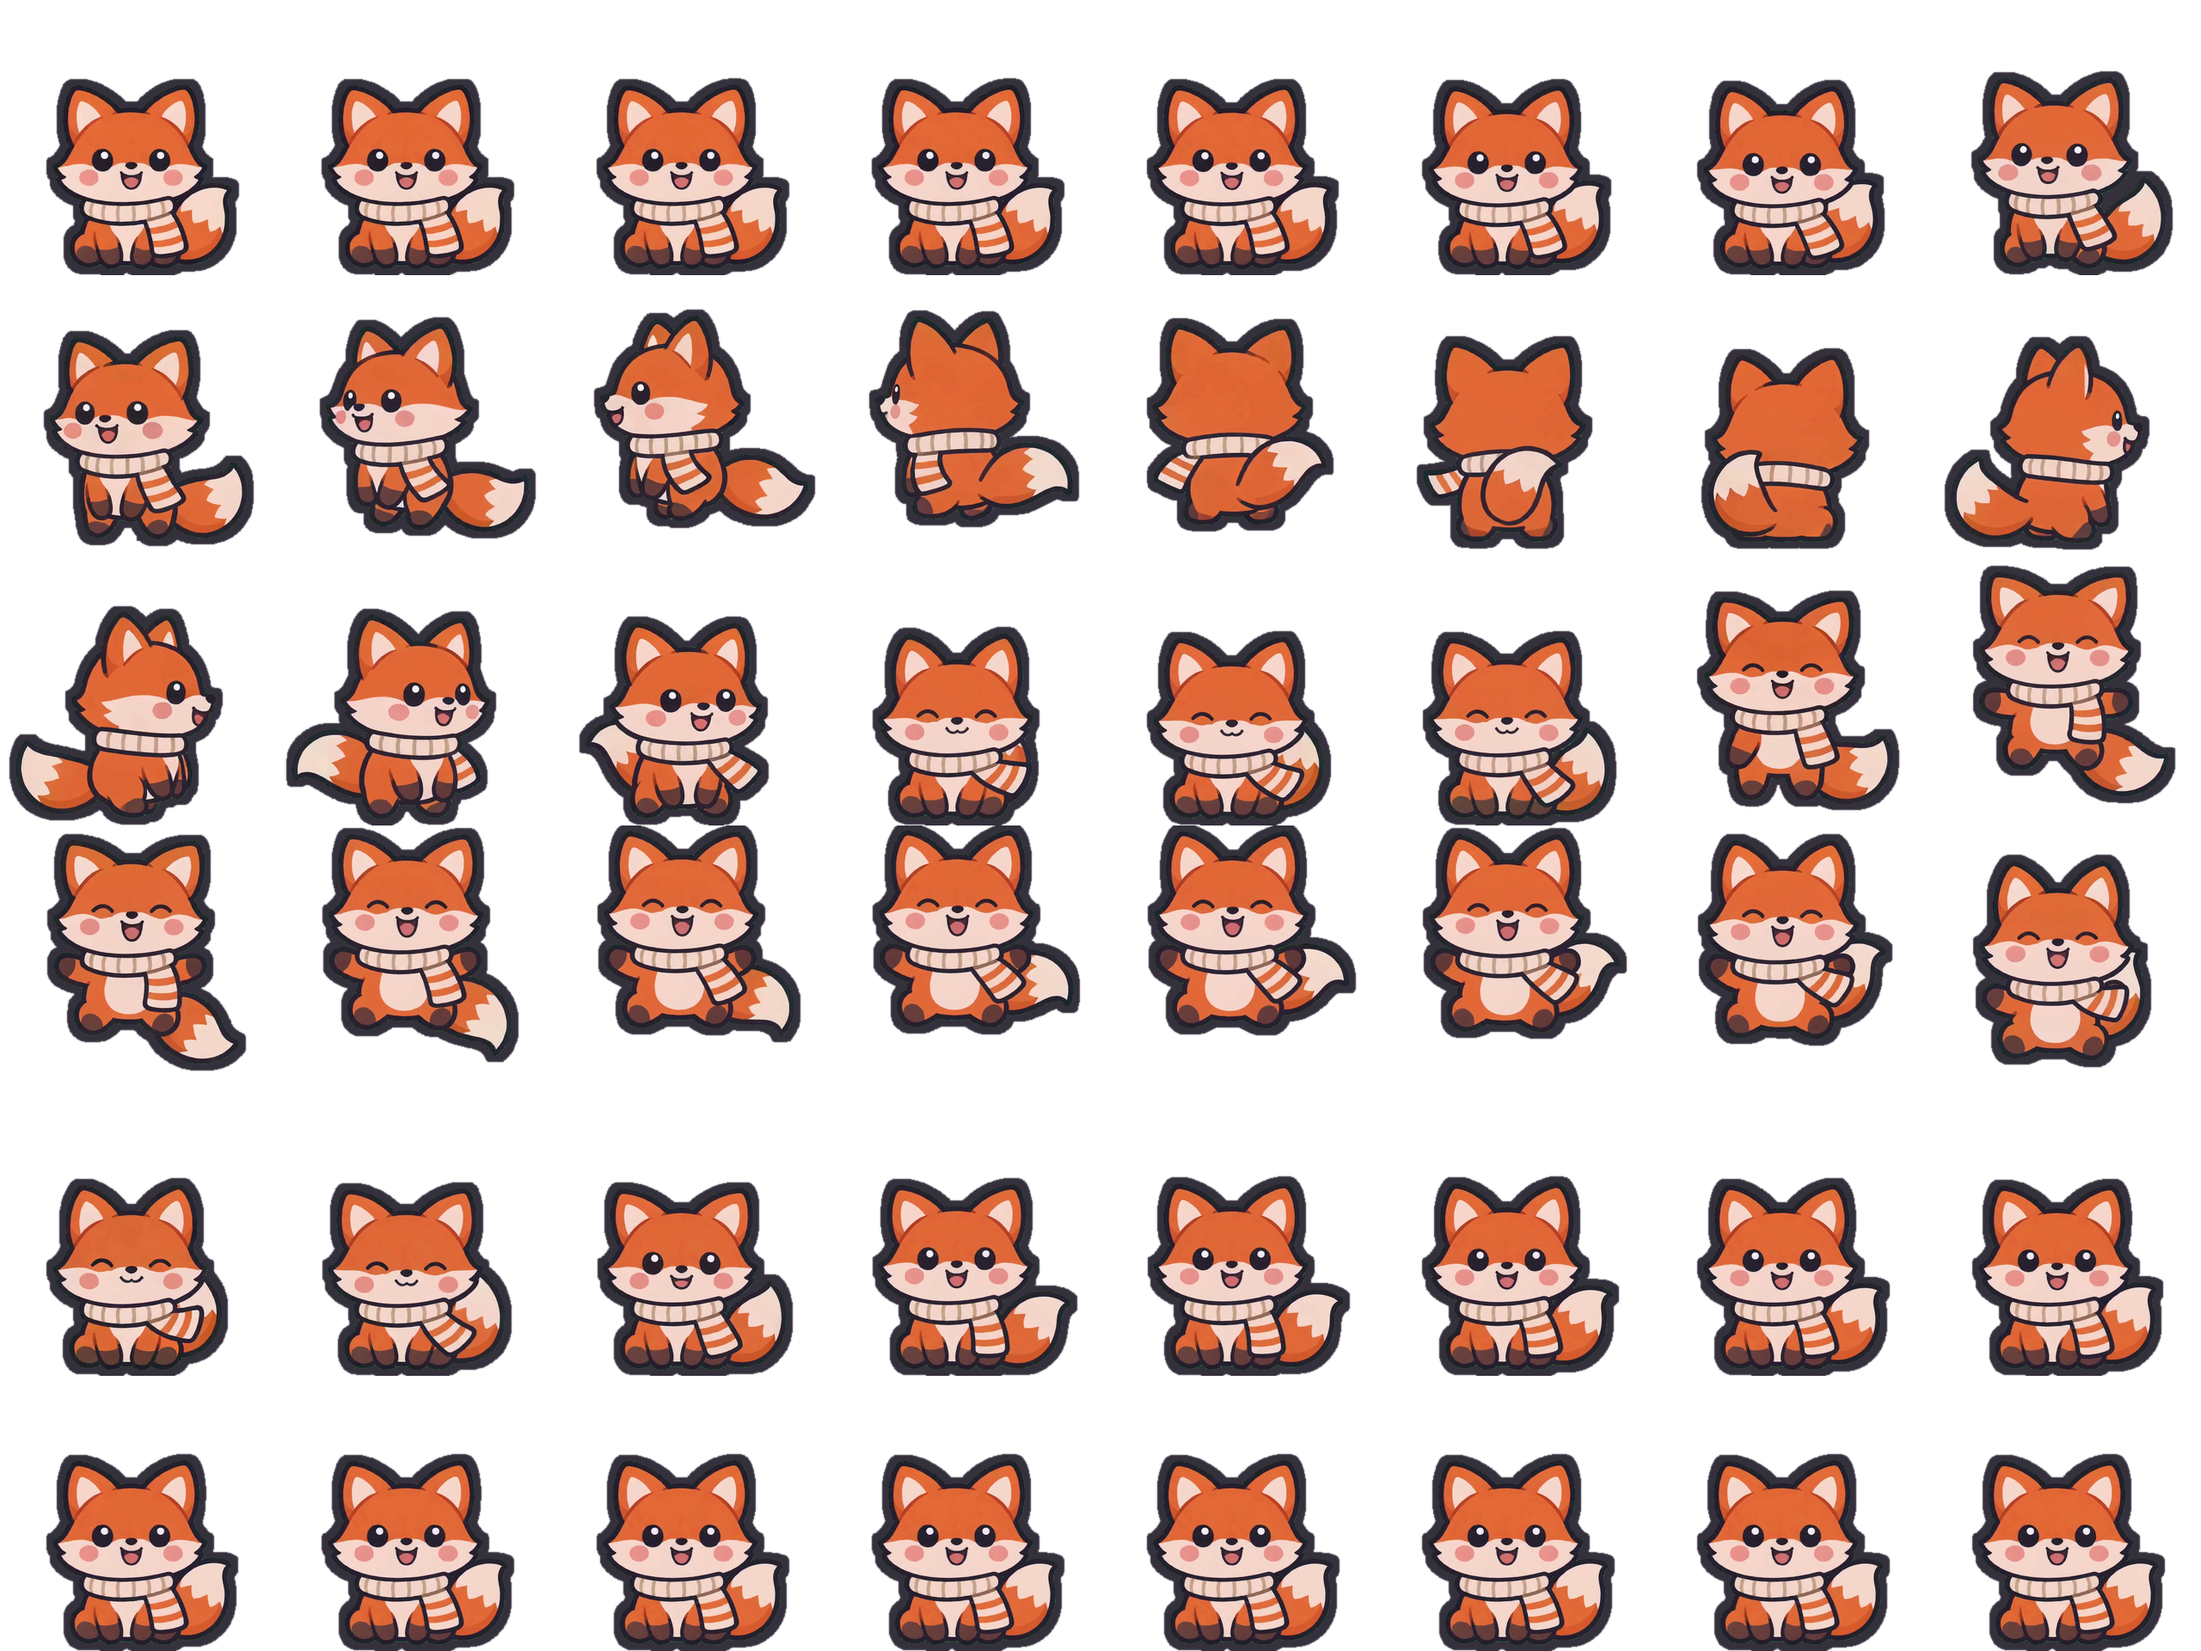
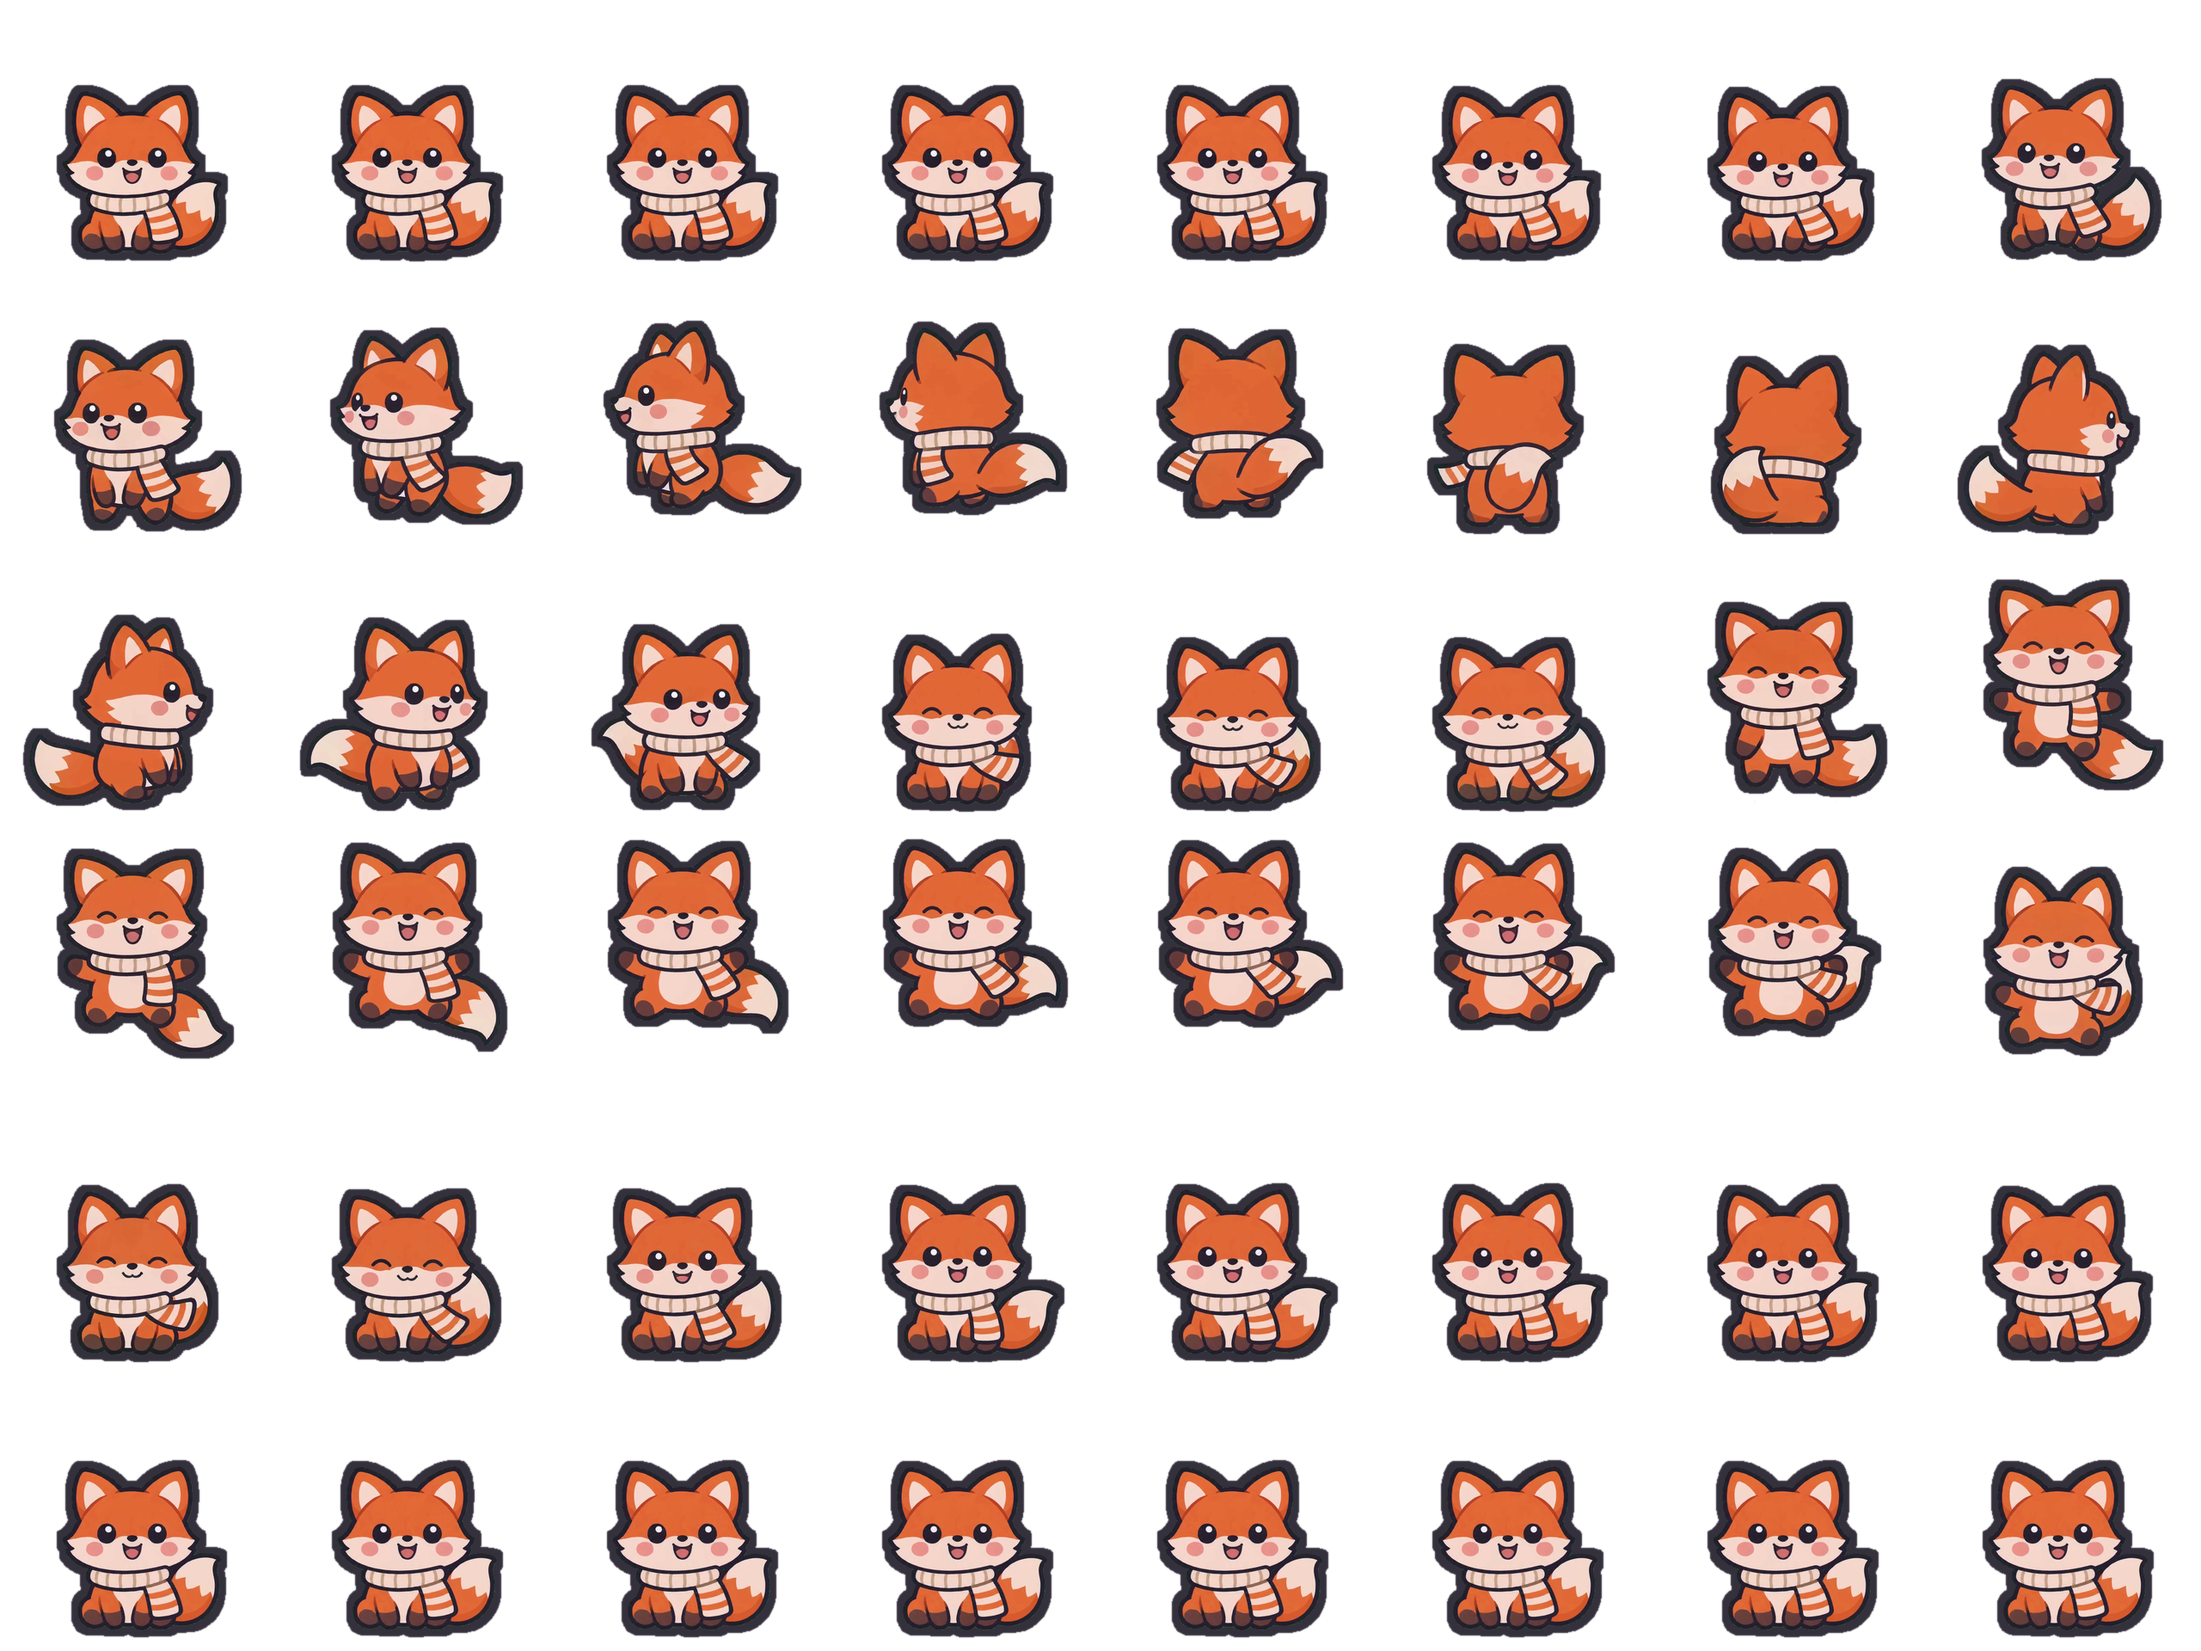
Animações sem cortes (orelhas do coelho no topo do salto, contorno da raposa) e pedra sem o contorno cortado dos lados
Claude-Session: https://claude.ai/code/session_019qmALCv4ef3vy6rfbU3Dgw

diff --git a/tools/video_anim.py b/tools/video_anim.py
@@ -95,11 +95,15 @@ def convert(video, name, fps, size, start, end, cols, thick=0):
     bg = np.median(border, axis=0).astype(np.float32)
     keyed = [key(f, bg) for f in frames]
     # um corte igual para todos os frames (o animal não "salta" de sítio)
-    boxes = [k.getchannel("A").point(lambda v: 255 if v > 40 else 0).getbbox() for k in keyed]
+    # (inclui as bordas suaves do contorno, para não cortar pontas de orelhas)
+    boxes = [k.getchannel("A").point(lambda v: 255 if v > 8 else 0).getbbox() for k in keyed]
     boxes = [b for b in boxes if b]
     x0 = min(b[0] for b in boxes); y0 = min(b[1] for b in boxes)
     x1 = max(b[2] for b in boxes); y1 = max(b[3] for b in boxes)
-    side = int(max(x1 - x0, y1 - y0) * 1.04)
+    # margem à volta: 6% de cada lado, mais o contorno que se acrescente
+    side = int(max(x1 - x0, y1 - y0) * 1.12)
+    if thick:
+        side += int(2 * thick * side / size) + 4
     cx, cy = (x0 + x1) // 2, (y0 + y1) // 2
     box = (cx - side // 2, cy - side // 2, cx - side // 2 + side, cy - side // 2 + side)
     tiles = [k.crop(box).resize((size, size), Image.LANCZOS) for k in keyed]
